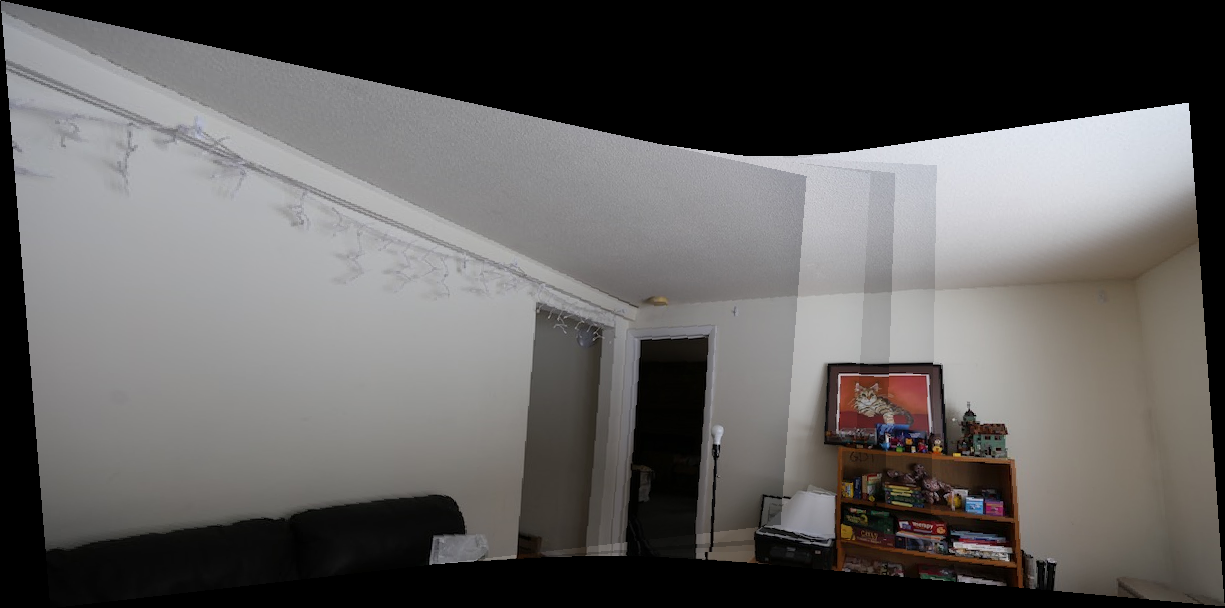
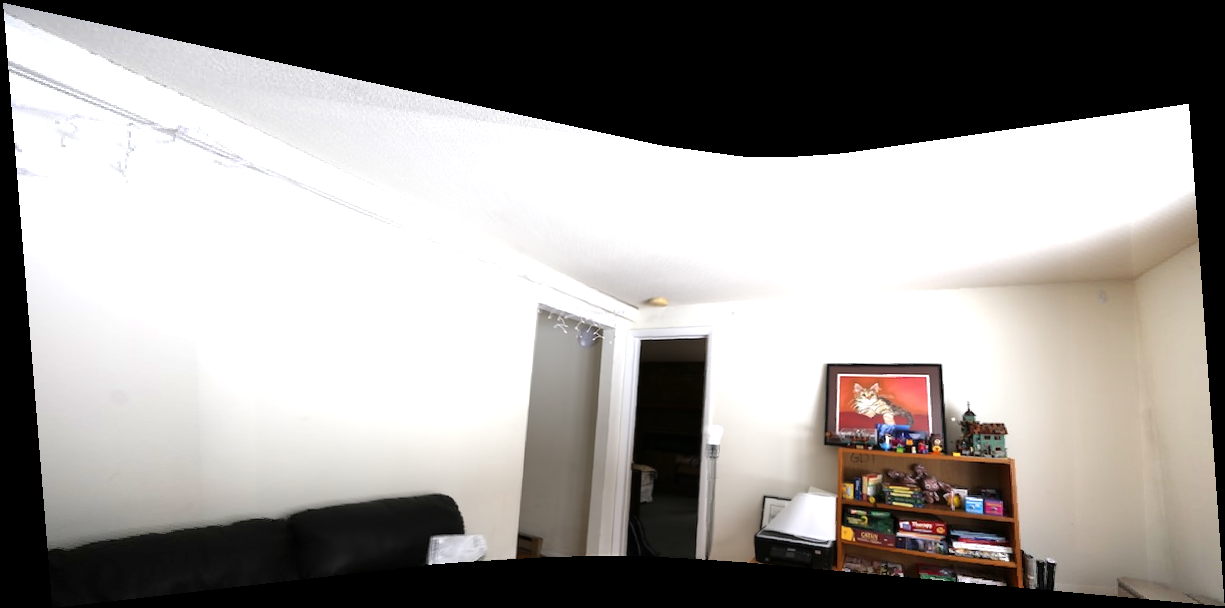
multiple images with blending--buggy

diff --git a/src/stitches.cpp b/src/stitches.cpp
@@ -145,7 +145,7 @@ FloatImage Pano::autocatnimages(std::vector<PanoImage> &pims, bool center){
         lhomo << nhomo;
     }
 
-    output = catnimages(ref, ims, homos);
+    output = catnimagesBlend(ref, ims, homos);
 //    }
 
     return output;
@@ -208,6 +208,98 @@ FloatImage Pano::catnimages(FloatImage ref, std::vector<FloatImage> ims, std::ve
             }
         }
         cout << "image " << n + 1<< " done"<<endl;
+    }
+
+
+    return output;
+
+}
+
+FloatImage Pano::catnimagesBlend(FloatImage ref, std::vector<FloatImage> ims, std::vector<Mat3f> homos){
+    // ims are FloatImages from 0 to n
+    // 0 is the reference image
+
+    // init weight maps
+    FloatImage refWeight = calweight(ref.sizeX(), ref.sizeY());
+    vector<FloatImage> weights;
+    for (int n = 0; n < ims.size(); ++n) {
+        weights.push_back(calweight(ims[n].sizeX(), ims[n].sizeY()));
+    }
+
+    // init inv homos
+    vector<Mat3f> invHomos;
+    for (int n = 0; n < homos.size(); ++n) {
+        invHomos.push_back(homos[n].inverse());
+    }
+
+    // init imagebounds
+    ImageBound im1bound = boundBox(ref);
+    vector<ImageBound> bounds;
+    Canvas canv;
+
+    for (int n = 0; n < homos.size(); ++n) {
+        bounds.push_back(boundBoxHomo(ims[n], homos[n]));
+    }
+    bounds.push_back(im1bound);
+    // calculate canvas of output image
+    canv = calculateCanvas(bounds);
+    cout << "image bound"<<endl;
+
+    FloatImage canv_w(canv.length, canv.height, 1);
+
+    //paste image1 onto canvas
+    FloatImage output(canv.length, canv.height, ref.channels());
+
+    for(int i = 0 ; i < ref.sizeX() ; i++) {
+        for (int j = 0; j < ref.sizeY(); j++) {
+            int nx = i - canv.offset.x();
+            int ny = j - canv.offset.y();
+            if (nx >= 0 && ny >= 0 && nx < canv.length && ny < canv.height)
+                for (int c = 0; c < ref.channels(); c++) {
+                    output(nx, ny, c) += (ref(i, j, c) * refWeight(i, j, 0));
+                    canv_w(nx, ny, 0) += refWeight(i, j, 0);
+                }
+        }
+    }
+    cout << "image ref done"<<endl;
+
+
+
+    for (int n = 0; n < homos.size(); ++n) {
+        Vec2i offsetImage = Vec2i(floor(bounds[n].topleft.x()), floor(bounds[n].topleft.y())) - canv.offset;
+        Vec2f sizeTransedImage = bounds[n].btnright - bounds[n].topleft;
+
+        for (int i = 0; i < sizeTransedImage.x(); ++i) {
+            for (int j = 0; j < sizeTransedImage.y(); ++j) {
+                Vec2f transed_pos = bounds[n].topleft + Vec2f(i,j);
+
+                Vec3f pos_f = invHomos[n] * Vec3f(transed_pos.x(), transed_pos.y(), 1);
+                Vec2i pos(floor(pos_f.x()/pos_f.z()), floor(pos_f.y()/pos_f.z()));
+
+                if(ims[n].inBound(pos.x(), pos.y())){
+                    Vec2i canvas_pos = offsetImage + Vec2i(i,j);
+                    if(canvas_pos.x() >= 0 && canvas_pos.y() >= 0 && canvas_pos.y() < canv.height && canvas_pos.x() < canv.length)
+                        for(int c = 0 ; c < ims[n].channels() ; c++) {
+                            output(canvas_pos.x(), canvas_pos.y(), c) +=
+                                    (ims[n](pos.x(), pos.y(), c) * weights[n](pos.x(), pos.y(), 0));
+                            canv_w(canvas_pos.x(), canvas_pos.y(), 0) += weights[n](pos.x(), pos.y(), 0);
+                        }
+                }
+            }
+        }
+        cout << "image " << n + 1<< " done"<<endl;
+    }
+
+
+    canv_w.debugWrite();
+    for (int i = 0; i < canv.length; ++i) {
+        for (int j = 0; j < canv.height; ++j) {
+            if(canv_w(i, j, 0) > 0){
+                for (int c = 0; c < output.channels(); ++c) {
+                    output(i, j, c) = output(i, j, c) / canv_w(i, j, 0);
+                }
+            }
+        }
     }
 
 

diff --git a/include/stitches.hpp b/include/stitches.hpp
@@ -82,6 +82,7 @@ public:
     FloatImage cat2images(const FloatImage &im1, const FloatImage &im2, Mat3f homo);
     FloatImage catnimages(FloatImage ref, std::vector<FloatImage> ims, std::vector<Mat3f> homos);
     FloatImage cat2imageBlend(const FloatImage &im1, const FloatImage &im2, Mat3f homo);
+    FloatImage catnimagesBlend(FloatImage ref, std::vector<FloatImage> ims, std::vector<Mat3f> homos);
     FloatImage mancat2images(const FloatImage &im1, const FloatImage &im2, std::vector<std::vector<Vec2f>> pairs);
 
     FloatImage autocat2images(PanoImage &pim1, PanoImage &pim2, bool blend=true);

diff --git a/src/main.cpp b/src/main.cpp
@@ -154,7 +154,12 @@ int main(){
 //    testCatPan();
 //    testHome();
 
-    testNHome(5148, 5155);
+    Pano pano;
+    FloatImage ref(DATA_DIR "/input/lily1.jpg");
+    FloatImage refWeight = pano.calweight(ref.sizeX(), ref.sizeY());
+    refWeight.write(DATA_DIR "/output/weightmap.png");
+
+    //testNHome(5148, 5155);
 
     return 0;
 
